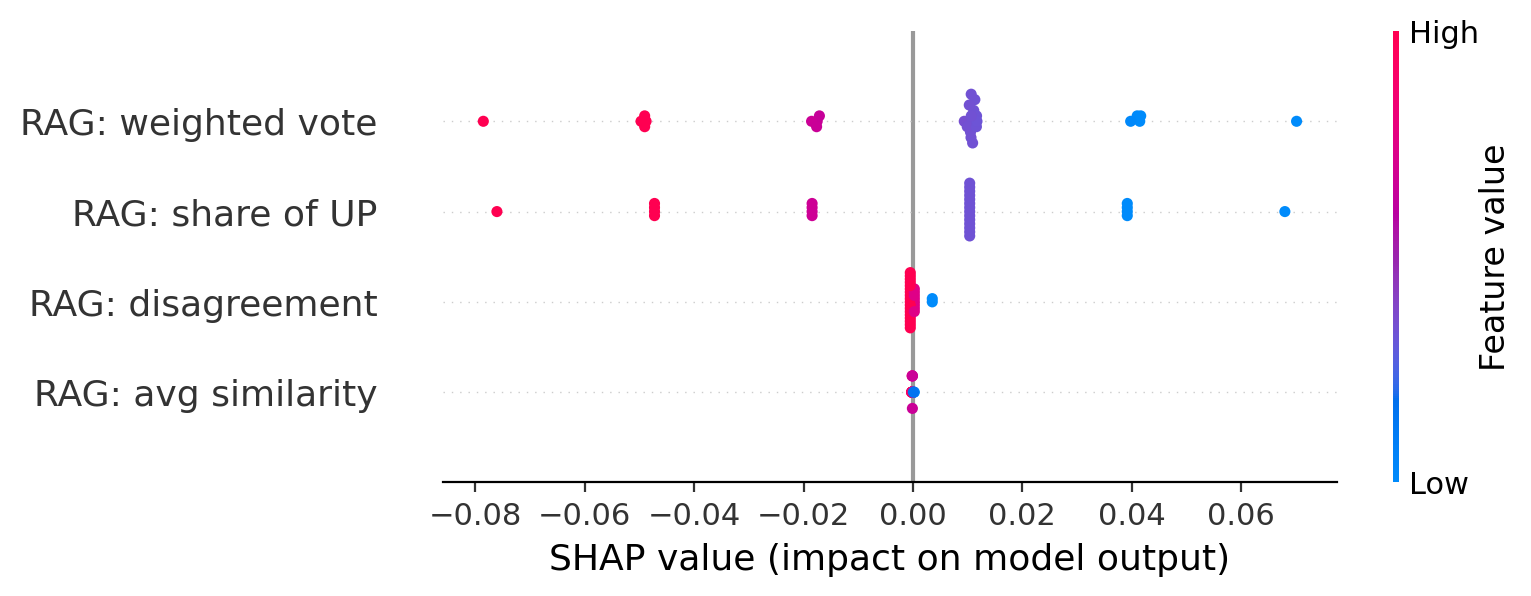
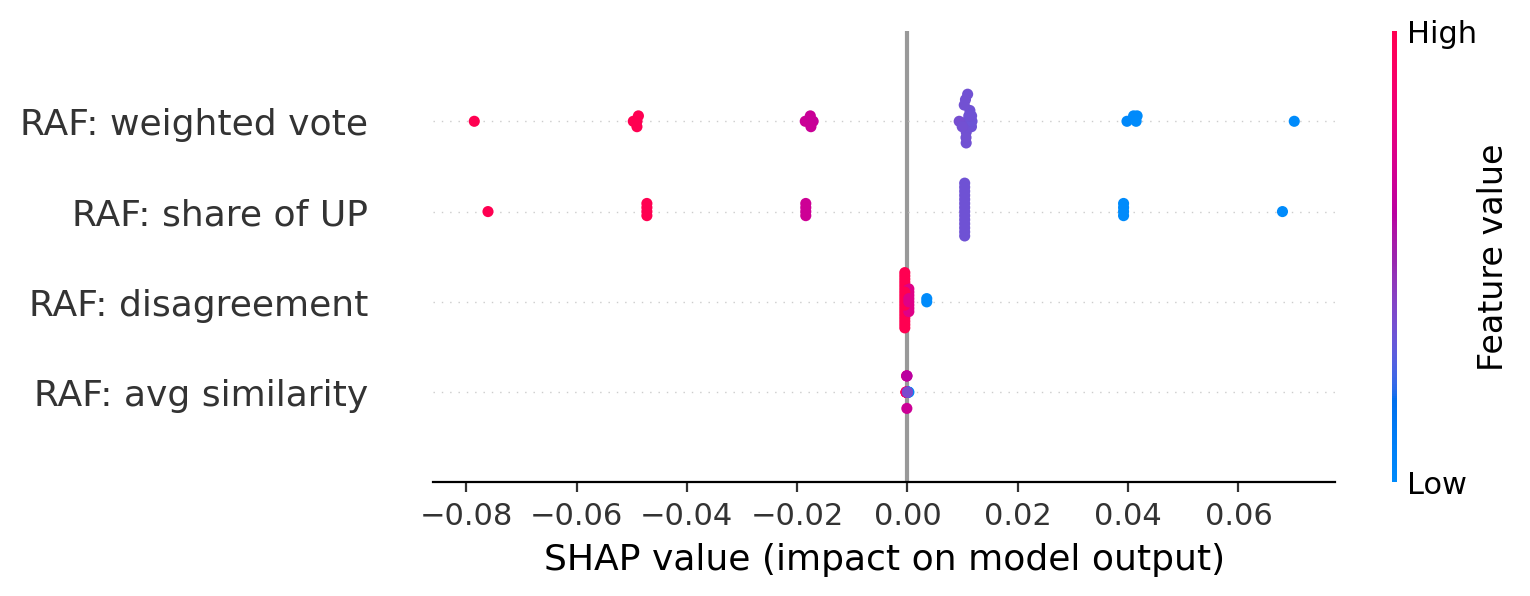
Regenerate Figure 7.2 with RAF labels; add CPU reproduction script
The committed figure still carried RAG axis labels baked into the PNG while the
caption and surrounding text said RAF. Added 06_regenerate_shap_figure.py, a
CPU-only reproduction of the Text + RAF pilot, and regenerated the figure with
it. The run reproduces the thesis numbers exactly: 180 UP/DOWN events, 125/27/28
split, text-only 0.607 (F1 0.608), +RAF 0.679 (F1 0.679).

diff --git a/06_regenerate_shap_figure.py b/06_regenerate_shap_figure.py
@@ -1,0 +1,115 @@
+# -*- coding: utf-8 -*-
+"""
+Step 6: Reproduce the Text + RAF pilot locally (CPU) and regenerate Figure 7.2.
+
+This mirrors RAMTA_experiments_colab.ipynb exactly - same frozen FinBERT CLS
+embeddings, same chronological 70/15/15 split, same four RAF context features,
+same regularised logistic head, same SHAP LinearExplainer - so that the figure
+used in the thesis is produced by committed code rather than by an ad-hoc
+notebook run, and so that the accuracies reported in Table 7.2 can be verified.
+
+Output: fig_shap_raf_features.png (Figure 7.2) + printed accuracies.
+"""
+import sys
+sys.stdout.reconfigure(encoding='utf-8')
+
+import numpy as np
+import pandas as pd
+import torch
+from transformers import AutoTokenizer, AutoModel
+from sklearn.linear_model import LogisticRegression
+from sklearn.metrics import accuracy_score, f1_score
+import faiss
+import shap
+import matplotlib
+matplotlib.use('Agg')
+import matplotlib.pyplot as plt
+
+ROOT = r'C:\Users\melik\OneDrive\Desktop\newthesis'
+DATA = ROOT + r'\experiments\data'
+
+# ── Data ──────────────────────────────────────────────────────────────────────
+ev = pd.read_csv(f'{DATA}\\political_events.csv', parse_dates=['date'])
+ev = ev.dropna(subset=['EURUSD_dir_3d']).sort_values('date').reset_index(drop=True)
+ev = ev[ev['EURUSD_dir_3d'].isin(['UP', 'DOWN'])].reset_index(drop=True)
+ev['label'] = (ev['EURUSD_dir_3d'] == 'UP').astype(int)
+print(f'{len(ev)} UP/DOWN events | {ev["label"].value_counts().to_dict()}')
+
+# ── Frozen FinBERT CLS embeddings ─────────────────────────────────────────────
+tok = AutoTokenizer.from_pretrained('ProsusAI/finbert')
+enc = AutoModel.from_pretrained('ProsusAI/finbert').eval()
+
+texts = (ev['actor'] + '. ' + ev['text']).tolist()
+embs = []
+with torch.no_grad():
+    for i in range(0, len(texts), 16):
+        batch = tok(texts[i:i+16], padding=True, truncation=True,
+                    max_length=128, return_tensors='pt')
+        embs.append(enc(**batch).last_hidden_state[:, 0, :].numpy())
+X = np.vstack(embs)
+y = ev['label'].values
+print('Embeddings:', X.shape)
+
+# ── Chronological split ───────────────────────────────────────────────────────
+n = len(ev); n_tr, n_va = int(n*0.70), int(n*0.15)
+Xtr, ytr = X[:n_tr], y[:n_tr]
+Xte, yte = X[n_tr+n_va:], y[n_tr+n_va:]
+print(f'train={len(ytr)} val={n_va} test={len(yte)}')
+
+# ── Model A: text-only ────────────────────────────────────────────────────────
+clf_text = LogisticRegression(max_iter=2000, C=0.1, class_weight='balanced').fit(Xtr, ytr)
+pred_text = clf_text.predict(Xte)
+acc_text, f1_text = accuracy_score(yte, pred_text), f1_score(yte, pred_text, average='weighted')
+print(f'FinBERT text-only  |  acc = {acc_text:.3f}  F1 = {f1_text:.3f}')
+
+# ── Model B: + RAF (FAISS over train-only knowledge base) ─────────────────────
+K = 5
+Xn = X / np.linalg.norm(X, axis=1, keepdims=True)
+index = faiss.IndexFlatIP(X.shape[1])
+index.add(Xn[:n_tr].astype('float32'))
+
+def raf_features(split_X, offset):
+    feats = []
+    for i, v in enumerate(split_X):
+        q = (v / np.linalg.norm(v)).astype('float32')[None, :]
+        sims, idxs = index.search(q, min(K + 1, n_tr))
+        pairs = [(s, j) for s, j in zip(sims[0], idxs[0]) if (offset + i) != j][:K]
+        lbls = np.array([ytr[j] for _, j in pairs], dtype=float)
+        sim_arr = np.array([s for s, _ in pairs], dtype=float)
+        feats.append([
+            lbls.mean(),
+            (sim_arr * lbls).sum() / max(sim_arr.sum(), 1e-8),
+            sim_arr.mean(),
+            lbls.std() if len(lbls) > 1 else 0.0,
+        ])
+    return np.array(feats)
+
+Xtr_raf = np.hstack([Xtr, raf_features(Xtr, 0)])
+Xte_raf = np.hstack([Xte, raf_features(Xte, n_tr + n_va)])
+
+clf_raf = LogisticRegression(max_iter=2000, C=0.1, class_weight='balanced').fit(Xtr_raf, ytr)
+pred_raf = clf_raf.predict(Xte_raf)
+acc_raf, f1_raf = accuracy_score(yte, pred_raf), f1_score(yte, pred_raf, average='weighted')
+print(f'FinBERT + RAF (K={K})  |  acc = {acc_raf:.3f}  F1 = {f1_raf:.3f}')
+
+# ── SHAP on the four RAF context features -> Figure 7.2 ───────────────────────
+explainer = shap.LinearExplainer(clf_raf, Xtr_raf)
+shap_vals = explainer.shap_values(Xte_raf)
+
+plt.figure()
+shap.summary_plot(shap_vals[:, -4:], Xte_raf[:, -4:],
+                  feature_names=['RAF: share of UP', 'RAF: weighted vote',
+                                 'RAF: avg similarity', 'RAF: disagreement'],
+                  show=False)
+plt.tight_layout()
+plt.savefig(f'{ROOT}\\fig_shap_raf_features.png', dpi=200, bbox_inches='tight')
+print(f'\nSaved figure: {ROOT}\\fig_shap_raf_features.png')
+
+pd.DataFrame([
+    ['Majority class (3-class, n_test=31)', '0.484', '-'],
+    ['ARIMA(1,0,1) (3-class, n_test=31)',   '0.516', '-'],
+    [f'FinBERT text-only (binary, n_test={len(yte)})', f'{acc_text:.3f}', f'{f1_text:.3f}'],
+    [f'FinBERT + RAF (K={K}) (binary, n_test={len(yte)})', f'{acc_raf:.3f}', f'{f1_raf:.3f}'],
+], columns=['Model', 'Directional Accuracy (test)', 'Weighted F1']
+).to_csv(f'{DATA}\\results_finbert_raf.csv', index=False)
+print('Saved: results_finbert_raf.csv')

diff --git a/README.md b/README.md
@@ -25,6 +25,7 @@ experiments/
 ├── build_multimodal_notebook_v3.py        (14 KB)  Generates RAMTA_multimodal_pilot_v3_colab.ipynb
 ├── 04_threshold_sensitivity.py            (2 KB)   0.1% neutral-band threshold sensitivity analysis (Section 3.2.1/4.4)
 ├── 05_return_statistics.py                (2 KB)   Daily-return NEUTRAL coverage + volatility stats behind the 0.1% band justification (Section 3.2.1)
+├── 06_regenerate_shap_figure.py           (5 KB)   CPU reproduction of the Text + RAF pilot; regenerates Figure 7.2 and results_finbert_raf.csv
 ├── data/                                   (889 KB total)
 │   ├── financial_data.csv                 (796 KB, 2,712 rows)  Daily OHLC + log returns + rolling volatility, 2015-2025
 │   ├── political_events.csv               (88 KB, 202 rows)     202 curated political events with real market-reaction labels
@@ -126,6 +127,11 @@ the architectural specification in Chapter 5 of the thesis:
   encodes the first 60 s of audio but 18 key-frames spanning 180 s, so the two
   modalities are not temporally aligned. Stated in thesis Section 7.5.1 and listed
   as a required correction in Chapter 9.
+- **The final row of Table 7.2 has been reproduced from this repository.**
+  Running `python 06_regenerate_shap_figure.py` on CPU yields 180 UP/DOWN events,
+  a 125 / 27 / 28 chronological split, FinBERT text-only accuracy 0.607 (F1 0.608)
+  and FinBERT + RAF accuracy 0.679 (F1 0.679) — identical to the values reported
+  in the thesis — and regenerates Figure 7.2. No GPU is required.
 - **Only the final row of Table 7.2 is reproducible from this repository.** The
   event repository was expanded in place across six pilot iterations (79 → 116 →
   137 → 154 → 174 → 202 events) rather than being versioned, so
